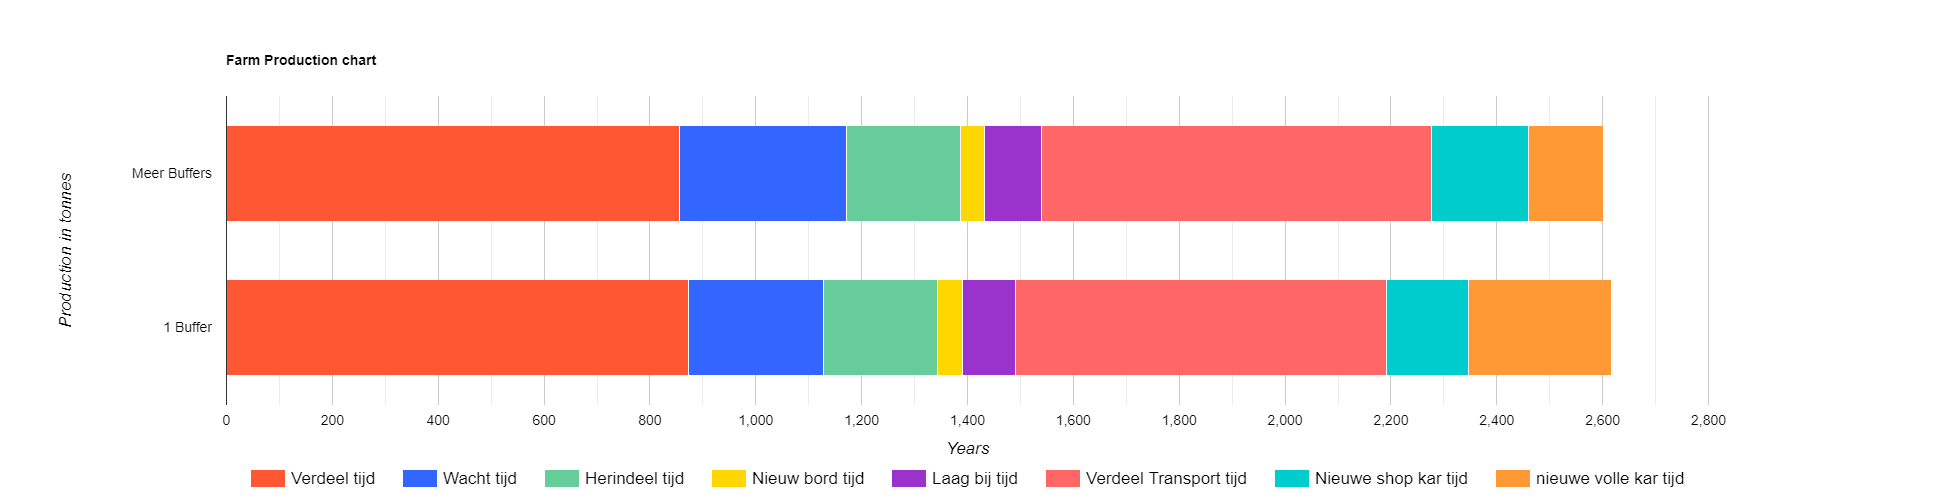
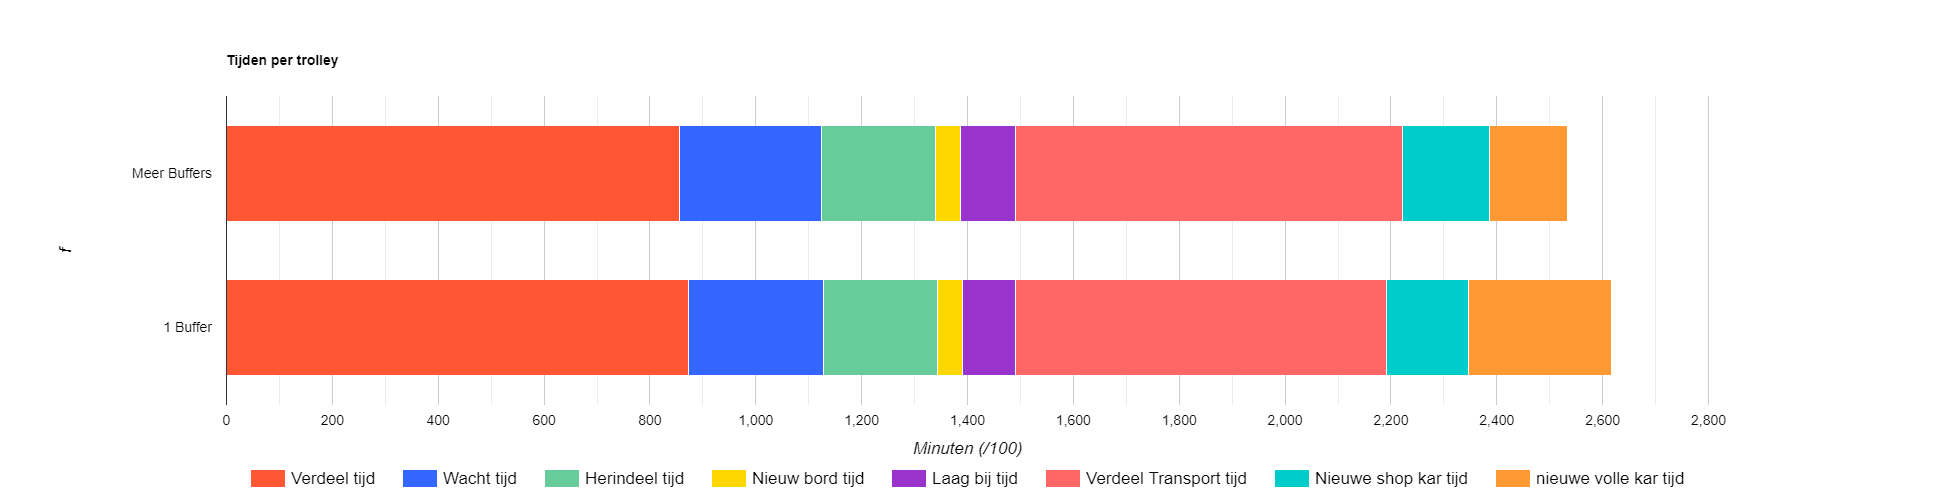
Updated the graphs, Changed some constants to fix the time proportions

diff --git a/StaticComponents/plant.cs b/StaticComponents/plant.cs
@@ -16,7 +16,7 @@ namespace FloorSimulation
         public int id = 0; //TODO: create a function to assign unique id's just like the trolleys
         public string name;//Assign plant names here 
         public ShopHub DestinationHub;
-        public const int ReorderTime = 27000; //ms
+        public const int ReorderTime = 30000; //ms
         public int units;
 
         public plant(ShopHub desthub, int units_, string name_ = "Plant_Name_Here") 

diff --git a/SimComponents/Distributer.cs b/SimComponents/Distributer.cs
@@ -35,7 +35,7 @@ namespace FloorSimulation
         public int MaxWaitedTicks;
 
         public List<WalkTile> route;
-        public const float WALKSPEED = 70f; // cm/s
+        public const float WALKSPEED = 85f; // cm/s
         private float TravelSpeed = WALKSPEED;
         private float travel_dist_per_tick;
         public int distributionms_per_tick; // plant distribution per tick in ms
